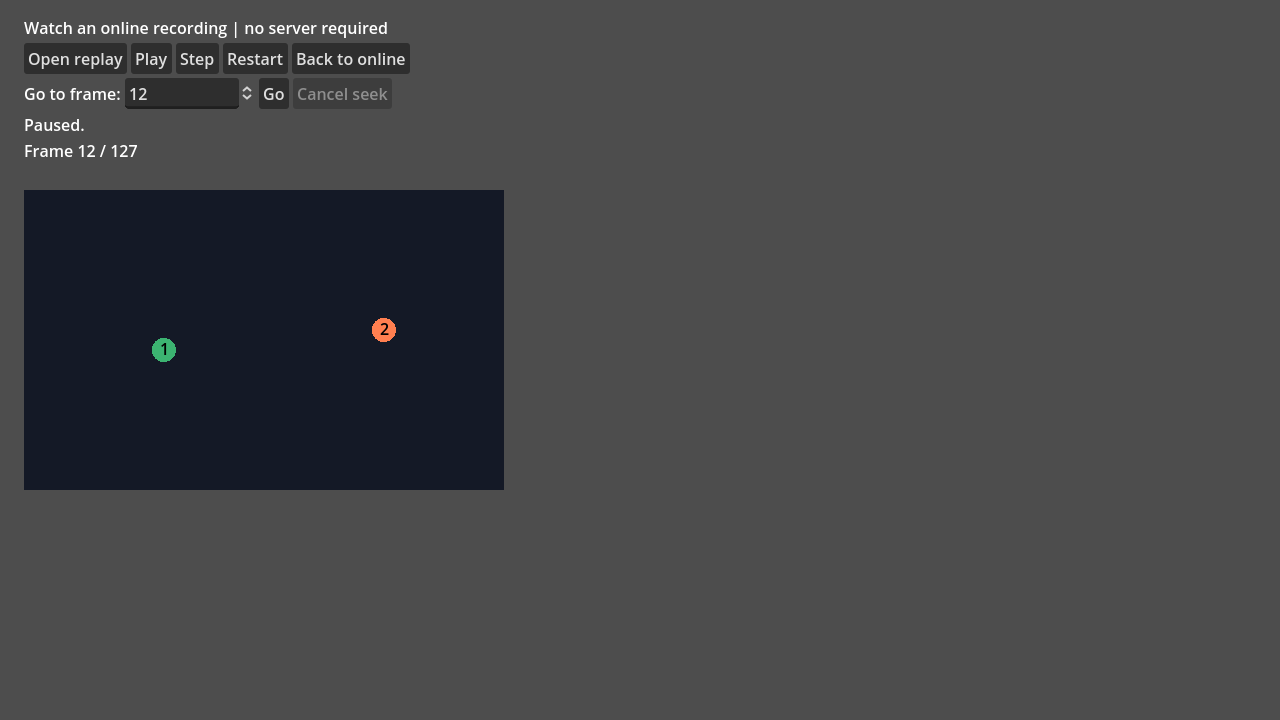
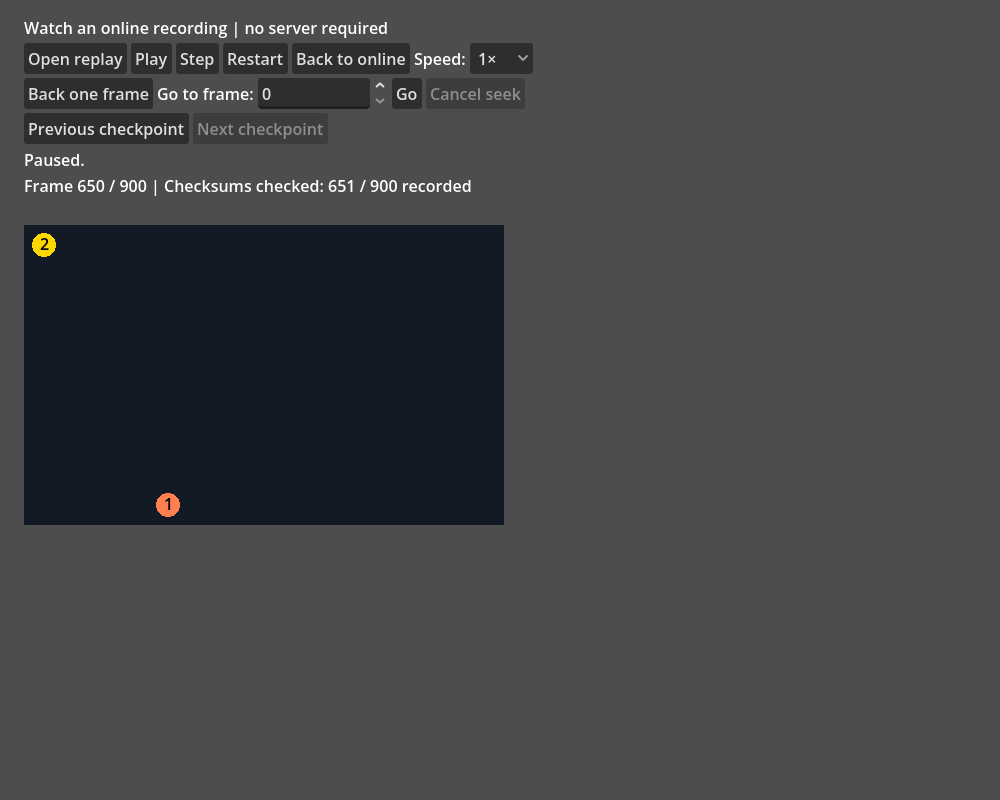
Improve client diagnostics and replay controls

Changed region(s): [[0.0, 0.0306, 0.558, 0.7028], [0.279, 0.4278, 0.31, 0.4889], [0.124, 0.4583, 0.155, 0.5194]]

diff --git a/scripts/reference/ownership_probes.py b/scripts/reference/ownership_probes.py
@@ -85,7 +85,7 @@ EXPECTED.update({
 EXPECTED['res://tests/unit/test_driver_recovery.gd'] = {
     'final_history', 'staged_sample', 'failures', 'guards', 'expert_parity', 'matching_tail', 'boundary_checksum', 'client_history'}
 EXPECTED['res://tests/unit/test_spectator_demo.gd'].update({'clean_host_end', 'paused_final_tail'})
-EXPECTED['res://tests/unit/test_spectator_demo.gd'].update({'single_frame', 'single_frame_end', 'single_frame_control'})
+EXPECTED['res://tests/unit/test_spectator_demo.gd'].update({'single_frame', 'single_frame_end', 'single_frame_control', 'host_loss', 'host_loss_control'})
 EXPECTED['res://tests/unit/test_peer_recovery.gd'] = {'final_mesh', 'guards', 'callbacks', 'timeout', 'idle_confirmation'}
 EXPECTED['res://tests/unit/test_replay_coverage.gd'] = {'coverage', 'counting', 'unchecked_seek', 'paused_input_integrity'}
 EXPECTED['res://tests/unit/test_driver.gd'].add('input_exhaustion')

diff --git a/docs/integration.md b/docs/integration.md
@@ -158,8 +158,10 @@ current and confirmed frame, the lifecycle, the terminal `reason` and the `failu
 `driver.confirmed_inputs(frame)` returns owned finalized inputs for confirmed, simulated frames
 outside pending correction. It returns null when unavailable, including during callbacks.
 Read rows before the bounded input history wraps; returned rows survive later driver calls.
-Every step result carries the same terminal `reason` and `failure_frame`, so a client that
-only holds the driver still learns why a session stopped.
+Every step and recovery result carries the same terminal `reason`, `failure_frame` and `failure_kind`,
+including peer sessions. `failure_kind` identifies the failed `Types.Kind.SAVE`, `LOAD` or `ADVANCE`
+callback; it is -1 when termination did not identify a callback. These values preserve the first
+failure through later rejected calls, so a client can identify the callback that stopped its game.
 
 To stop recording at the current simulated frame, stop submitting new samples,
 continue delivering outstanding remote inputs, and call `driver.recover(now_us)`.
@@ -351,6 +353,10 @@ Both default to zero. Enable both together with a positive snapshot size,
 a capacity of 2–1024, and callback games implementing `load_state`. Expert clients dispatch the load themselves. Reserved snapshot bytes
 (`capacity * max_snapshot_bytes`) must not exceed 16 MiB. The initial checkpoint is
 retained; the oldest later checkpoint is evicted when the cache fills.
+
+`checkpoint_frames()` returns an owned ascending list of retained, successfully validated boundaries.
+Use it to offer navigation targets in callback or expert clients. It excludes evicted entries and is empty before the first cache save.
+The inventory remains readable after failure, but restoration stays blocked until reconfiguration clears both failure and cache.
 
 `restore_before(target)` restores the nearest retained boundary at or before the target.
 Continue calling `step()` in a caller-bounded loop to reach the exact target. Forward

diff --git a/.llm/retrospectives/2026-10-24-client-diagnostics-and-checkpoint-controls.md b/.llm/retrospectives/2026-10-24-client-diagnostics-and-checkpoint-controls.md
@@ -1,0 +1,29 @@
+# Retrospective: client diagnostics and checkpoint controls
+
+## Work under review
+
+Session work advances driver diagnostics (#40), retained checkpoint navigation (#45),
+and the playable spectator host-loss flow (#47). Runtime format and simulation algorithms are unchanged.
+
+## Findings
+
+| Finding | Evidence | Disposition |
+| --- | --- | --- |
+| Driver-only clients need callback identity in returned results, including later rejected calls. | `core/driver.gd` result projection and `test_driver_callback_results.gd` SAVE/LOAD/ADVANCE matrix | Added the existing status field to results; no second failure store. |
+| Retained checkpoint targets should come from the cache's validated inventory. | `replay_player.gd` checkpoint listing; callback/expert inventory and eviction tests | Added an owned list and viewer controls sharing existing restoration. |
+| Controller tests cannot prove help text fits above a board. | Rendered spectator image exposed overlap after adding a help line. | Spacing uses rendered label dimensions; documentation screenshots refreshed. |
+
+All paths above are relative to `addons/fortress_rollback/` or `tests/unit/`, except the example layout.
+Fresh reviewers independently examined each scoped diff and ran focused repeated suites.
+Full native and exported checks are required before delivery; local progress logs record exact receipts.
+
+## Curation and pruning
+
+Existing testing guidance already requires actual UI controls, rendered evidence and failure-boundary checks.
+Existing rollback guidance covers first-cause preservation and callback guards. No new rule duplicates these contracts.
+No stale claim or contradictory guidance was found; no canonical guidance was retired.
+The original broad source, differential and live-network acceptance stays in the open issues.
+
+## Outcome
+
+Retro: no-findings

diff --git a/PLAN.md b/PLAN.md
@@ -382,10 +382,13 @@ known-allocation positive control; flat memory alone is insufficient.
 
 ## Advanced parity boundaries
 
+Driver and peer step/recovery results expose the first failed callback kind alongside terminal reason and frame.
+
 Replay viewers report recorded and actually checked checksum coverage separately; checksum-free playback cannot establish validated history.
 Pausing or stepping a replay validates the displayed boundary and its selected input digest before allowing further playback.
 Expert replay clients can validate that same paused boundary through a save-only request batch without consuming input.
 Expert checkpoint navigation now shares callback restoration through ordered load/save requests, with exact snapshot validation before committing the selected frame.
+Viewer checkpoint controls use the owned inventory of retained validated boundaries and cannot bypass playback failure.
 Replay checkpoint acceleration is bounded and optional; repeated navigation reuses validated
 in-memory snapshots without changing the portable file format. Viewer speed controls change
 only the bounded number of recorded frames serviced; each simulation step stays fixed.

diff --git a/docs/spectators.md b/docs/spectators.md
@@ -24,7 +24,12 @@ respects the viewing delay; it waits when confirmed inputs are unavailable.
 The host continues playing during inspection. E stops the host at its current
 frame, waits for outstanding actual inputs, repairs its final state and sends a clean end.
 A paused viewer can resume or press N through the final tail to display that exact final state.
-After the last frame, press N once more to report completion. R starts a fresh game.
+After the last frame, press N once more to report completion.
+Press L to simulate a known loss of the viewer's host connection. Buffered viewer
+frames stop immediately, including while paused, and the last displayed state remains.
+The host keeps playing. R starts a fresh game after completion or connection loss.
+This control reports known loss directly to the spectator session; it does not
+close a real network connection or simulate elapsed host timeout.
 
 A long viewer pause can exhaust retained host history. The viewer then stops
 with `HISTORY_UNAVAILABLE`; the host keeps playing. The example encodes and receives spectator byte packets

diff --git a/docs/online-example.md b/docs/online-example.md
@@ -173,6 +173,8 @@ Pause, stepping, seeking and speed changes clear any partial
 slow-motion frame; restart and new imports keep your selected speed.
 Press **Back one frame** to inspect the preceding state, including after completion or a checksum failure.
 It pauses playback and uses the same bounded navigation as **Go**; **Cancel seek** can interrupt a long restore.
+Use **Previous checkpoint** and **Next checkpoint** to jump between retained, validated five-second boundaries.
+These controls become available as playback builds its cache. They finish paused and cannot skip a playback failure.
 Enter a frame number and press **Go** to navigate forward or backward. Navigation
 uses bounded in-memory checkpoints from previously validated playback, then replays the
 remaining inputs and checksums. A first visit still validates the full preceding history. Each UI tick processes at most 120 frames, and **Cancel seek**

diff --git a/CHANGELOG.md b/CHANGELOG.md
@@ -4,6 +4,12 @@
 
 ### Added
 
+- Add failed callback kinds to driver and peer step/recovery results, preserving the first failure through later calls.
+
+- Add retained replay checkpoint listings and Previous/Next checkpoint viewer controls for paused inspection.
+
+- Add an L control to demonstrate spectator host-link loss, stop buffered viewing immediately, and restart with R while the host keeps playing.
+
 - Add bounded expert replay checkpoint navigation through `begin_restore_before()`, with ordered load and save validation before selecting the restored frame.
 
 - Add `FortressReplayPlayer.begin_validate_current_frame()` so expert clients can validate paused inputs and state without advancing playback.
